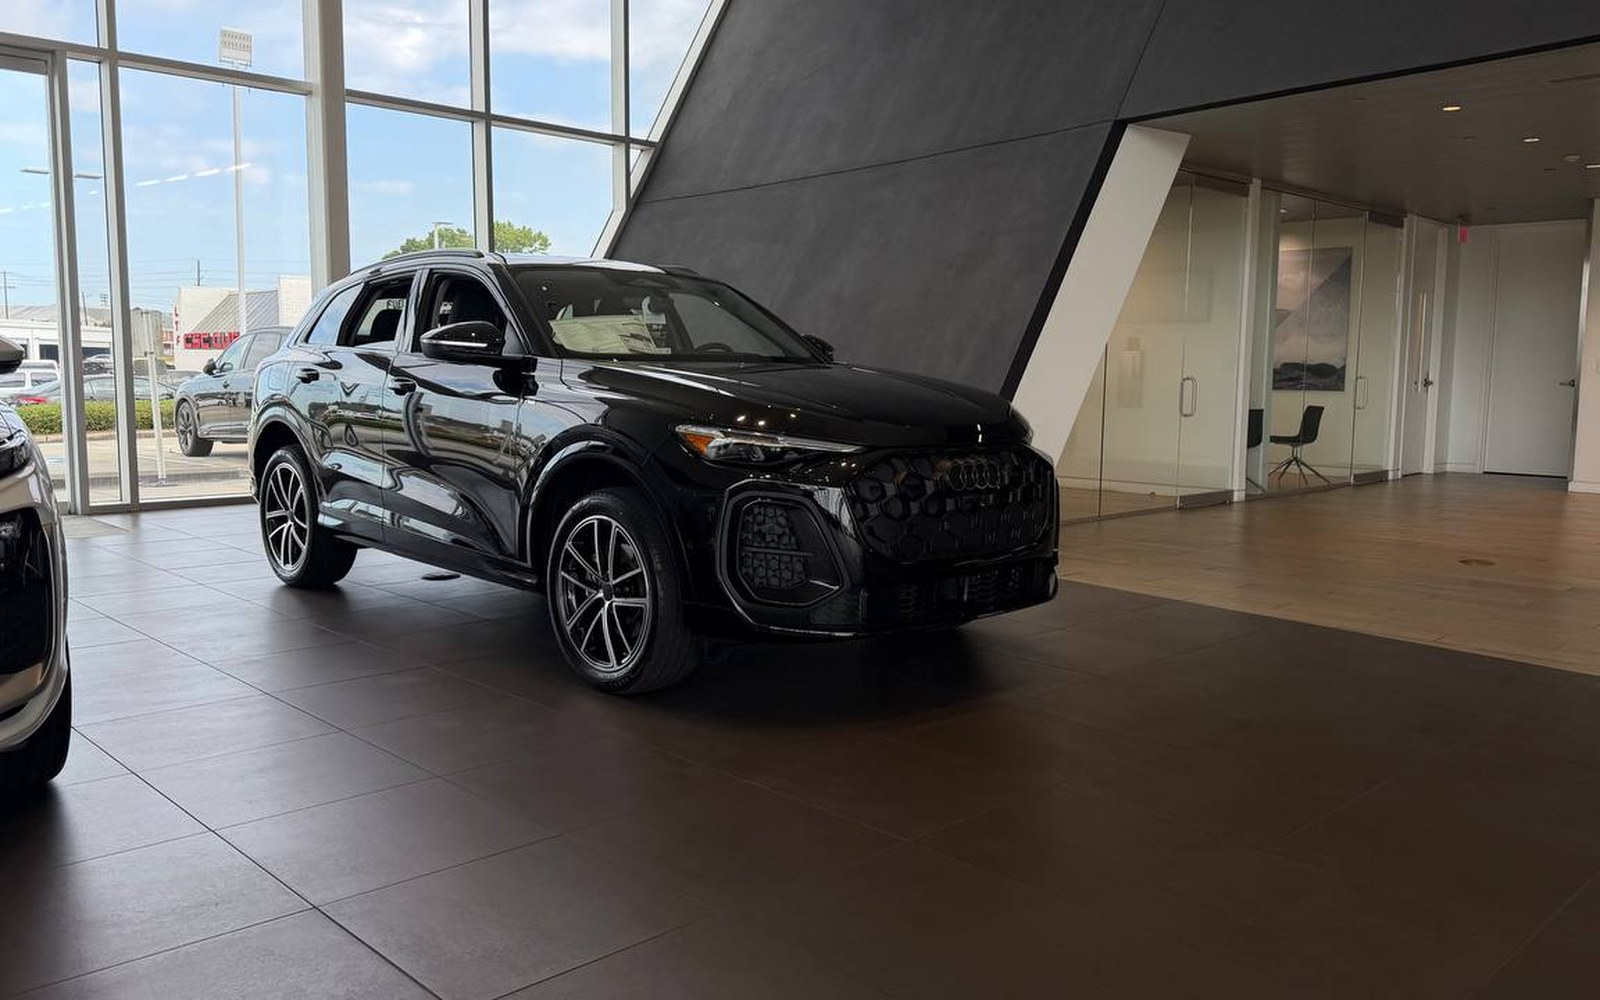
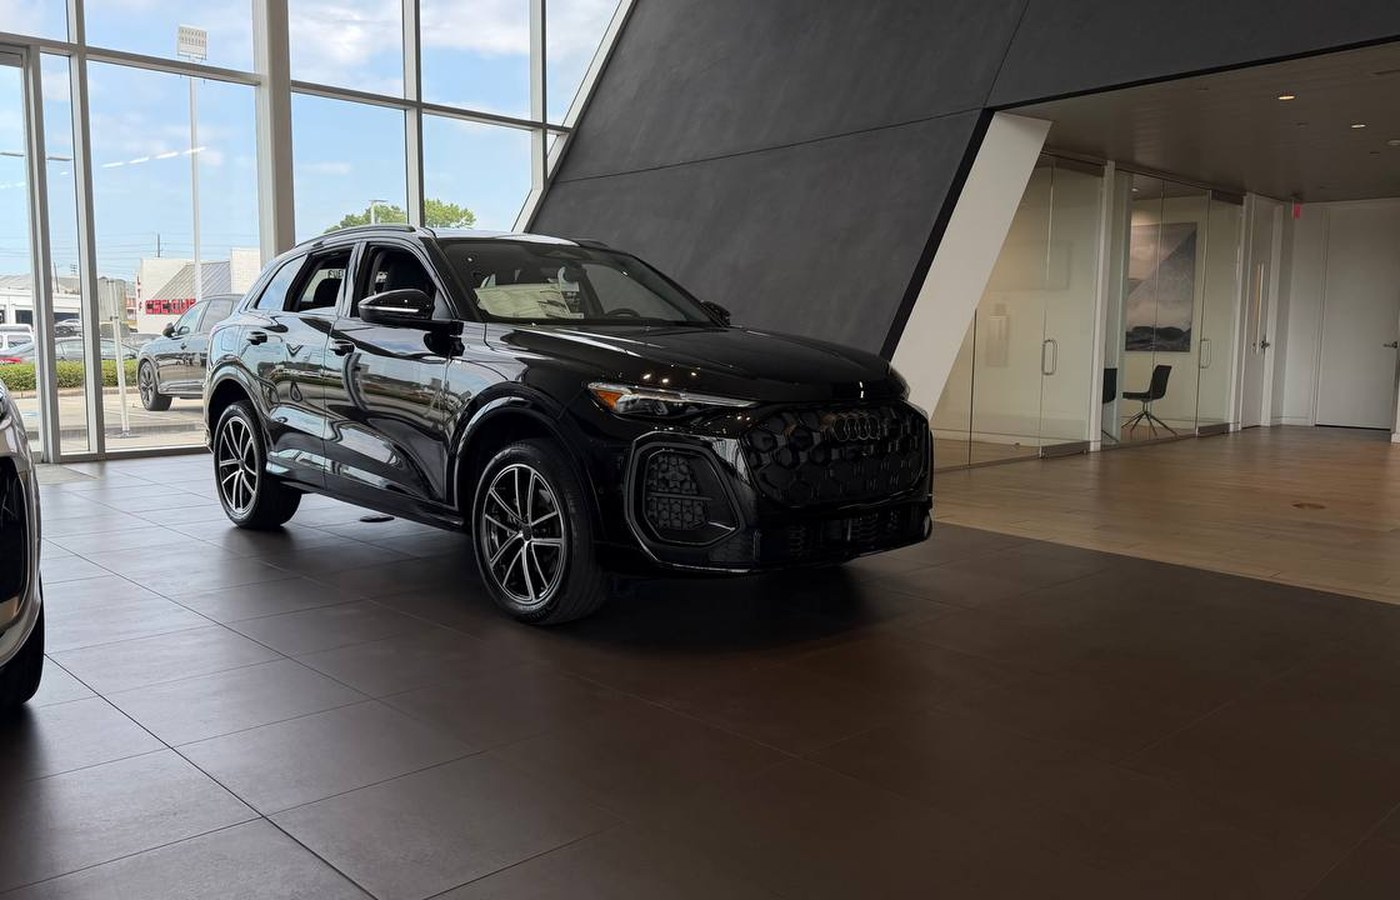
ABR Q panels: real Q3 lot hero + compact 4-up desktop
Replace weak/wrong Q3 plate; tighten gaps/type/buttons so four
cards fit a normal desktop; stack single-column only under 720px.

diff --git a/Audi Baton Rouge/abr-homepage-q3-q5-q7-q9-panels.html b/Audi Baton Rouge/abr-homepage-q3-q5-q7-q9-panels.html
@@ -4,7 +4,7 @@
   <meta charset="UTF-8" />
   <meta name="viewport" content="width=device-width, initial-scale=1.0" />
   <title>ABR Homepage — Q3 Q5 Q7 Q9 Feature Panels</title>
-  <meta name="description" content="Motive paste: four-panel SUV feature strip for Audi Baton Rouge homepage — Q3, Q5, Q7, Q9." />
+  <meta name="description" content="Motive paste: compact four-panel SUV feature strip for Audi Baton Rouge homepage." />
   <style>
     @font-face {
       font-family: "AudiType";
@@ -18,30 +18,30 @@
     }
     .abr-qpanels {
       font-family: AudiType, Audi, Arial, Helvetica, sans-serif;
-      background: #000;
+      background: transparent;
       color: #fff;
       width: 100%;
       max-width: 100%;
-      margin: 0;
-      padding: 24px 16px 32px;
+      margin: 0 auto;
+      padding: 8px 8px 12px;
       box-sizing: border-box;
       -webkit-text-size-adjust: 100%;
     }
     .abr-qpanels *, .abr-qpanels *::before, .abr-qpanels *::after { box-sizing: border-box; }
     .abr-qpanels a { text-decoration: none; color: inherit; }
+    /* Desktop/normal window: always 4 across */
     .abr-qpanels__grid {
       display: grid;
       grid-template-columns: repeat(4, minmax(0, 1fr));
-      gap: 16px;
+      gap: 10px;
       width: 100%;
-      max-width: 1400px;
       margin: 0 auto;
     }
     .abr-qpanel {
       display: flex;
       flex-direction: column;
       background: #111;
-      border: 1px solid #2a2a2a;
+      border: 1px solid #222;
       overflow: hidden;
       min-width: 0;
       height: 100%;
@@ -49,151 +49,120 @@
     .abr-qpanel__media {
       position: relative;
       width: 100%;
-      aspect-ratio: 16 / 10;
+      aspect-ratio: 14 / 9;
       background: #0a0a0a;
       overflow: hidden;
     }
     .abr-qpanel__media img {
-      width: 100%;
-      height: 100%;
-      object-fit: cover;
-      object-position: center;
+      width: 100%; height: 100%;
+      object-fit: cover; object-position: center 40%;
       display: block;
     }
     .abr-qpanel__body {
-      display: flex;
-      flex-direction: column;
-      flex: 1 1 auto;
-      padding: 22px 20px 20px;
-      background: #111;
-      color: #fff;
+      display: flex; flex-direction: column; flex: 1 1 auto;
+      padding: 12px 12px 12px;
+      background: #111; color: #fff;
     }
     .abr-qpanel__eyebrow {
-      margin: 0 0 8px;
-      font-size: 13px;
-      line-height: 1.35;
-      font-weight: 400;
+      margin: 0 0 4px;
+      font-size: 11px; line-height: 1.3; font-weight: 400;
       color: #BDBDBD !important;
+      white-space: nowrap; overflow: hidden; text-overflow: ellipsis;
     }
     .abr-qpanel__title {
-      margin: 0 0 12px;
-      font-size: clamp(22px, 2.1vw, 28px);
-      line-height: 1.15;
-      font-weight: 700;
-      letter-spacing: -0.02em;
-      color: #ffffff !important;
-      -webkit-text-fill-color: #ffffff;
+      margin: 0 0 6px;
+      font-size: 16px; line-height: 1.2; font-weight: 700;
+      letter-spacing: -0.015em;
+      color: #ffffff !important; -webkit-text-fill-color: #ffffff;
     }
     .abr-qpanel__copy {
-      margin: 0 0 20px;
-      font-size: 14px;
-      line-height: 1.55;
+      margin: 0 0 12px;
+      font-size: 12px; line-height: 1.4;
       color: #BDBDBD !important;
       flex: 1 1 auto;
+      display: -webkit-box; -webkit-line-clamp: 2; -webkit-box-orient: vertical; overflow: hidden;
     }
     .abr-qpanel__ctas {
-      display: flex;
-      flex-direction: column;
-      gap: 10px;
-      margin-top: auto;
+      display: flex; flex-direction: column; gap: 6px; margin-top: auto;
     }
     .abr-qpanel__btn {
-      display: flex;
-      align-items: center;
-      justify-content: center;
-      width: 100%;
-      min-height: 48px;
-      padding: 12px 16px;
+      display: flex; align-items: center; justify-content: center;
+      width: 100%; min-height: 36px; padding: 8px 10px;
       border-radius: 0;
       font-family: AudiType, Audi, Arial, sans-serif;
-      font-size: 14px;
-      font-weight: 700;
-      letter-spacing: 0.01em;
-      text-align: center;
-      white-space: nowrap;
-      overflow: visible;
+      font-size: 12px; font-weight: 700; letter-spacing: 0.02em;
+      text-align: center; white-space: nowrap; overflow: visible;
     }
     .abr-qpanel__btn span { white-space: nowrap; }
     .abr-qpanel__btn--primary {
-      background: #ffffff;
-      color: #000000 !important;
-      border: 1px solid #ffffff;
+      background: #fff; color: #000 !important; border: 1px solid #fff;
     }
-    .abr-qpanel__btn--primary span { color: #000000 !important; }
+    .abr-qpanel__btn--primary span { color: #000 !important; }
     .abr-qpanel__btn--secondary {
-      background: transparent;
-      color: #ffffff !important;
-      border: 1px solid #ffffff;
+      background: transparent; color: #fff !important; border: 1px solid #fff;
     }
-    .abr-qpanel__btn--secondary span { color: #ffffff !important; }
-    @media (max-width: 1100px) {
-      .abr-qpanels__grid { grid-template-columns: repeat(2, minmax(0, 1fr)); gap: 14px; }
-    }
-    @media (max-width: 640px) {
-      .abr-qpanels { padding: 16px 12px 24px; }
+    .abr-qpanel__btn--secondary span { color: #fff !important; }
+    /* Mobile only: stack one after another */
+    @media (max-width: 720px) {
+      .abr-qpanels { padding: 8px 10px 16px; }
       .abr-qpanels__grid { grid-template-columns: 1fr; gap: 12px; }
-      .abr-qpanel__title { font-size: 24px; }
+      .abr-qpanel__title { font-size: 20px; }
+      .abr-qpanel__copy { font-size: 14px; -webkit-line-clamp: 3; }
+      .abr-qpanel__btn { min-height: 44px; font-size: 13px; }
+      .abr-qpanel__body { padding: 16px; }
+      .abr-qpanel__eyebrow { white-space: normal; font-size: 12px; }
     }
   </style>
 </head>
 <body>
-  <!-- ABR Motive homepage inject: Q3 / Q5 / Q7 / Q9 feature panels -->
+  <!-- ABR Motive homepage inject: compact 4-up Q3/Q5/Q7/Q9 -->
   <section class="abr-qpanels" aria-label="Audi SUV feature models">
     <div class="abr-qpanels__grid">
-
     <article class="abr-qpanel">
-      <div class="abr-qpanel__media">
-        <img src="https://raw.githubusercontent.com/thecooperativeagency/seo-pages/main/assets/abr-homepage-q-suv-panels/q3.jpg" alt="All-new Audi Q3" loading="lazy" decoding="async" width="1600" height="1000" />
-      </div>
+      <div class="abr-qpanel__media"><img src="https://raw.githubusercontent.com/thecooperativeagency/seo-pages/main/assets/abr-homepage-q-suv-panels/q3-lot-v2.jpg" alt="All-new Audi Q3" loading="lazy" decoding="async" width="1400" height="900" /></div>
       <div class="abr-qpanel__body">
         <p class="abr-qpanel__eyebrow" style="color:#BDBDBD;">Compact luxury, arrived.</p>
         <h3 class="abr-qpanel__title" style="color:#ffffff;">All-new Audi Q3</h3>
-        <p class="abr-qpanel__copy" style="color:#BDBDBD;">The entry point to Audi’s SUV lineup — refined, capable, and ready now at Audi Baton Rouge.</p>
+        <p class="abr-qpanel__copy" style="color:#BDBDBD;">Refined, capable, and ready now at Audi Baton Rouge.</p>
         <div class="abr-qpanel__ctas">
-          <a class="abr-qpanel__btn abr-qpanel__btn--primary" href="https://audibatonrouge.com/cars/q3" style="color:#000000;"><span style="color:#000000;">Shop Inventory</span></a>
-          <a class="abr-qpanel__btn abr-qpanel__btn--secondary" href="https://audibatonrouge.com/all-new-audi-q3" style="color:#ffffff;"><span style="color:#ffffff;">Learn More</span></a>
+          <a class="abr-qpanel__btn abr-qpanel__btn--primary" href="https://audibatonrouge.com/cars/q3" style="color:#000;"><span style="color:#000;">Shop Inventory</span></a>
+          <a class="abr-qpanel__btn abr-qpanel__btn--secondary" href="https://audibatonrouge.com/all-new-audi-q3" style="color:#fff;"><span style="color:#fff;">Learn More</span></a>
         </div>
       </div>
     </article>
     <article class="abr-qpanel">
-      <div class="abr-qpanel__media">
-        <img src="https://raw.githubusercontent.com/thecooperativeagency/seo-pages/main/assets/abr-homepage-q-suv-panels/q5.jpg" alt="All-new Audi Q5" loading="lazy" decoding="async" width="1600" height="1000" />
-      </div>
+      <div class="abr-qpanel__media"><img src="https://raw.githubusercontent.com/thecooperativeagency/seo-pages/main/assets/abr-homepage-q-suv-panels/q5.jpg" alt="All-new Audi Q5" loading="lazy" decoding="async" width="1400" height="900" /></div>
       <div class="abr-qpanel__body">
-        <p class="abr-qpanel__eyebrow" style="color:#BDBDBD;">The one that started it.</p>
+        <p class="abr-qpanel__eyebrow" style="color:#BDBDBD;">The core luxury SUV.</p>
         <h3 class="abr-qpanel__title" style="color:#ffffff;">All-new Audi Q5</h3>
-        <p class="abr-qpanel__copy" style="color:#BDBDBD;">Audi’s core luxury SUV, reimagined — precision engineering with a more sculpted presence, inside and out.</p>
+        <p class="abr-qpanel__copy" style="color:#BDBDBD;">Precision engineering with a more sculpted presence.</p>
         <div class="abr-qpanel__ctas">
-          <a class="abr-qpanel__btn abr-qpanel__btn--primary" href="https://audibatonrouge.com/cars/q5" style="color:#000000;"><span style="color:#000000;">Shop Inventory</span></a>
-          <a class="abr-qpanel__btn abr-qpanel__btn--secondary" href="https://audibatonrouge.com/all-new-audi-q5" style="color:#ffffff;"><span style="color:#ffffff;">Learn More</span></a>
+          <a class="abr-qpanel__btn abr-qpanel__btn--primary" href="https://audibatonrouge.com/cars/q5" style="color:#000;"><span style="color:#000;">Shop Inventory</span></a>
+          <a class="abr-qpanel__btn abr-qpanel__btn--secondary" href="https://audibatonrouge.com/all-new-audi-q5" style="color:#fff;"><span style="color:#fff;">Learn More</span></a>
         </div>
       </div>
     </article>
     <article class="abr-qpanel">
-      <div class="abr-qpanel__media">
-        <img src="https://raw.githubusercontent.com/thecooperativeagency/seo-pages/main/assets/abr-homepage-q-suv-panels/q7.jpg" alt="All-new 2027 Audi Q7" loading="lazy" decoding="async" width="1600" height="1000" />
-      </div>
+      <div class="abr-qpanel__media"><img src="https://raw.githubusercontent.com/thecooperativeagency/seo-pages/main/assets/abr-homepage-q-suv-panels/q7.jpg" alt="All-new 2027 Audi Q7" loading="lazy" decoding="async" width="1400" height="900" /></div>
       <div class="abr-qpanel__body">
-        <p class="abr-qpanel__eyebrow" style="color:#BDBDBD;">Three rows. 429 horsepower.</p>
+        <p class="abr-qpanel__eyebrow" style="color:#BDBDBD;">Three rows. 429 hp.</p>
         <h3 class="abr-qpanel__title" style="color:#ffffff;">All-new 2027 Audi Q7</h3>
-        <p class="abr-qpanel__copy" style="color:#BDBDBD;">The third-generation three-row brings more power, more space, and the same uncompromising standard.</p>
+        <p class="abr-qpanel__copy" style="color:#BDBDBD;">Third-generation three-row power and space.</p>
         <div class="abr-qpanel__ctas">
-          <a class="abr-qpanel__btn abr-qpanel__btn--primary" href="https://audibatonrouge.com/cars/q7" style="color:#000000;"><span style="color:#000000;">Shop Inventory</span></a>
-          <a class="abr-qpanel__btn abr-qpanel__btn--secondary" href="https://audibatonrouge.com/all-new-2027-q7" style="color:#ffffff;"><span style="color:#ffffff;">Learn More</span></a>
+          <a class="abr-qpanel__btn abr-qpanel__btn--primary" href="https://audibatonrouge.com/cars/q7" style="color:#000;"><span style="color:#000;">Shop Inventory</span></a>
+          <a class="abr-qpanel__btn abr-qpanel__btn--secondary" href="https://audibatonrouge.com/all-new-2027-q7" style="color:#fff;"><span style="color:#fff;">Learn More</span></a>
         </div>
       </div>
     </article>
     <article class="abr-qpanel">
-      <div class="abr-qpanel__media">
-        <img src="https://raw.githubusercontent.com/thecooperativeagency/seo-pages/main/assets/abr-homepage-q-suv-panels/q9.jpg" alt="All-new 2027 Audi Q9" loading="lazy" decoding="async" width="1600" height="1000" />
-      </div>
+      <div class="abr-qpanel__media"><img src="https://raw.githubusercontent.com/thecooperativeagency/seo-pages/main/assets/abr-homepage-q-suv-panels/q9.jpg" alt="All-new 2027 Audi Q9" loading="lazy" decoding="async" width="1400" height="900" /></div>
       <div class="abr-qpanel__body">
         <p class="abr-qpanel__eyebrow" style="color:#BDBDBD;">Audi’s largest SUV ever.</p>
         <h3 class="abr-qpanel__title" style="color:#ffffff;">All-new 2027 Audi Q9</h3>
-        <p class="abr-qpanel__copy" style="color:#BDBDBD;">The first-ever Q9 — full-size flagship presence and the most spacious Audi cabin to date.</p>
+        <p class="abr-qpanel__copy" style="color:#BDBDBD;">First-ever full-size flagship. Most spacious Audi cabin to date.</p>
         <div class="abr-qpanel__ctas">
-          <a class="abr-qpanel__btn abr-qpanel__btn--primary" href="https://audibatonrouge.com/inventory?filters=%7B%22sortBy%22%3A%7B%22option%22%3A%7B%22label%22%3A%22Price%22%2C%22value%22%3A%22price%22%2C%22type%22%3A%22value%22%7D%2C%22direction%22%3A%22desc%22%7D%2C%22appliedFilters%22%3A%7B%22car_condition%22%3A%7B%22value%22%3A%7B%22New%22%3Atrue%7D%7D%2C%22model%22%3A%7B%22value%22%3A%7B%22q9%22%3Atrue%7D%7D%7D%7D" style="color:#000000;"><span style="color:#000000;">Shop Inventory</span></a>
-          <a class="abr-qpanel__btn abr-qpanel__btn--secondary" href="https://audibatonrouge.com/all-new-2027-audi-q9" style="color:#ffffff;"><span style="color:#ffffff;">Learn More</span></a>
+          <a class="abr-qpanel__btn abr-qpanel__btn--primary" href="https://audibatonrouge.com/inventory?filters=%7B%22sortBy%22%3A%7B%22option%22%3A%7B%22label%22%3A%22Price%22%2C%22value%22%3A%22price%22%2C%22type%22%3A%22value%22%7D%2C%22direction%22%3A%22desc%22%7D%2C%22appliedFilters%22%3A%7B%22car_condition%22%3A%7B%22value%22%3A%7B%22New%22%3Atrue%7D%7D%2C%22model%22%3A%7B%22value%22%3A%7B%22q9%22%3Atrue%7D%7D%7D%7D" style="color:#000;"><span style="color:#000;">Shop Inventory</span></a>
+          <a class="abr-qpanel__btn abr-qpanel__btn--secondary" href="https://audibatonrouge.com/all-new-2027-audi-q9" style="color:#fff;"><span style="color:#fff;">Learn More</span></a>
         </div>
       </div>
     </article>
